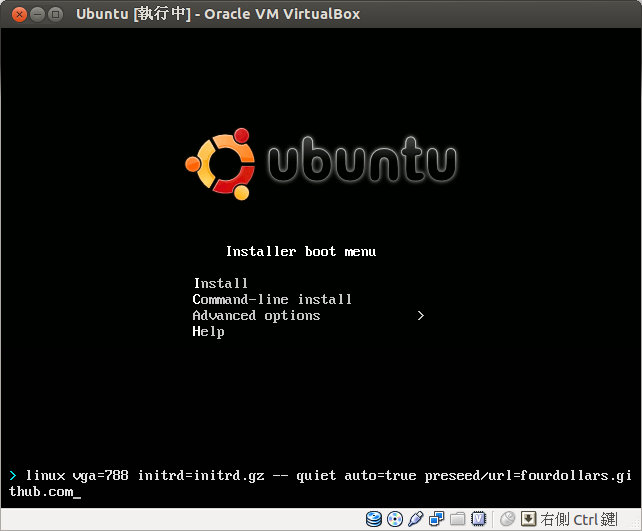
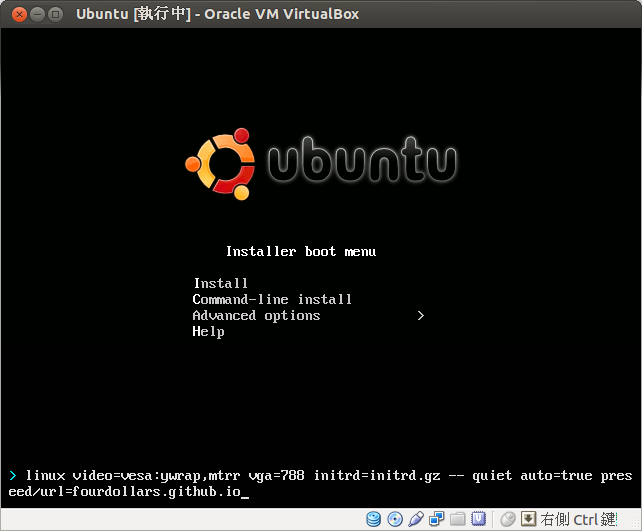
Upgrade to quantal backport.

diff --git a/index.html b/index.html
@@ -21,7 +21,7 @@
         <h1>透過網路自動安裝 Ubuntu 12.04</h1>
         <ol>
             <li>首先要確定有線網路可以使用 DHCP 自動取得 IP 以及連上 Internet</li>
-            <li>從<a href="http://archive.ubuntu.com/ubuntu/dists/precise/main/installer-i386/current/images/netboot/">這裡</a>下載 mini.iso</li>
+            <li>從<a href="http://archive.ubuntu.com/ubuntu/dists/precise-updates/main/installer-i386/current/images/quantal-netboot/gtk/">這裡</a>下載 mini.iso</li>
             <li>將隨身碟接上有裝 Ubuntu 的電腦，然後執行 `sudo su -c "cat mini.iso &gt; /dev/sdb"`，其中 /dev/sdb 依實際情況調整</li>
             <li>將隨身碟接上想要安裝 Ubuntu 的電腦，利用 BIOS 開機選單從隨身碟開機</li>
             <img src="precise/0.png">
